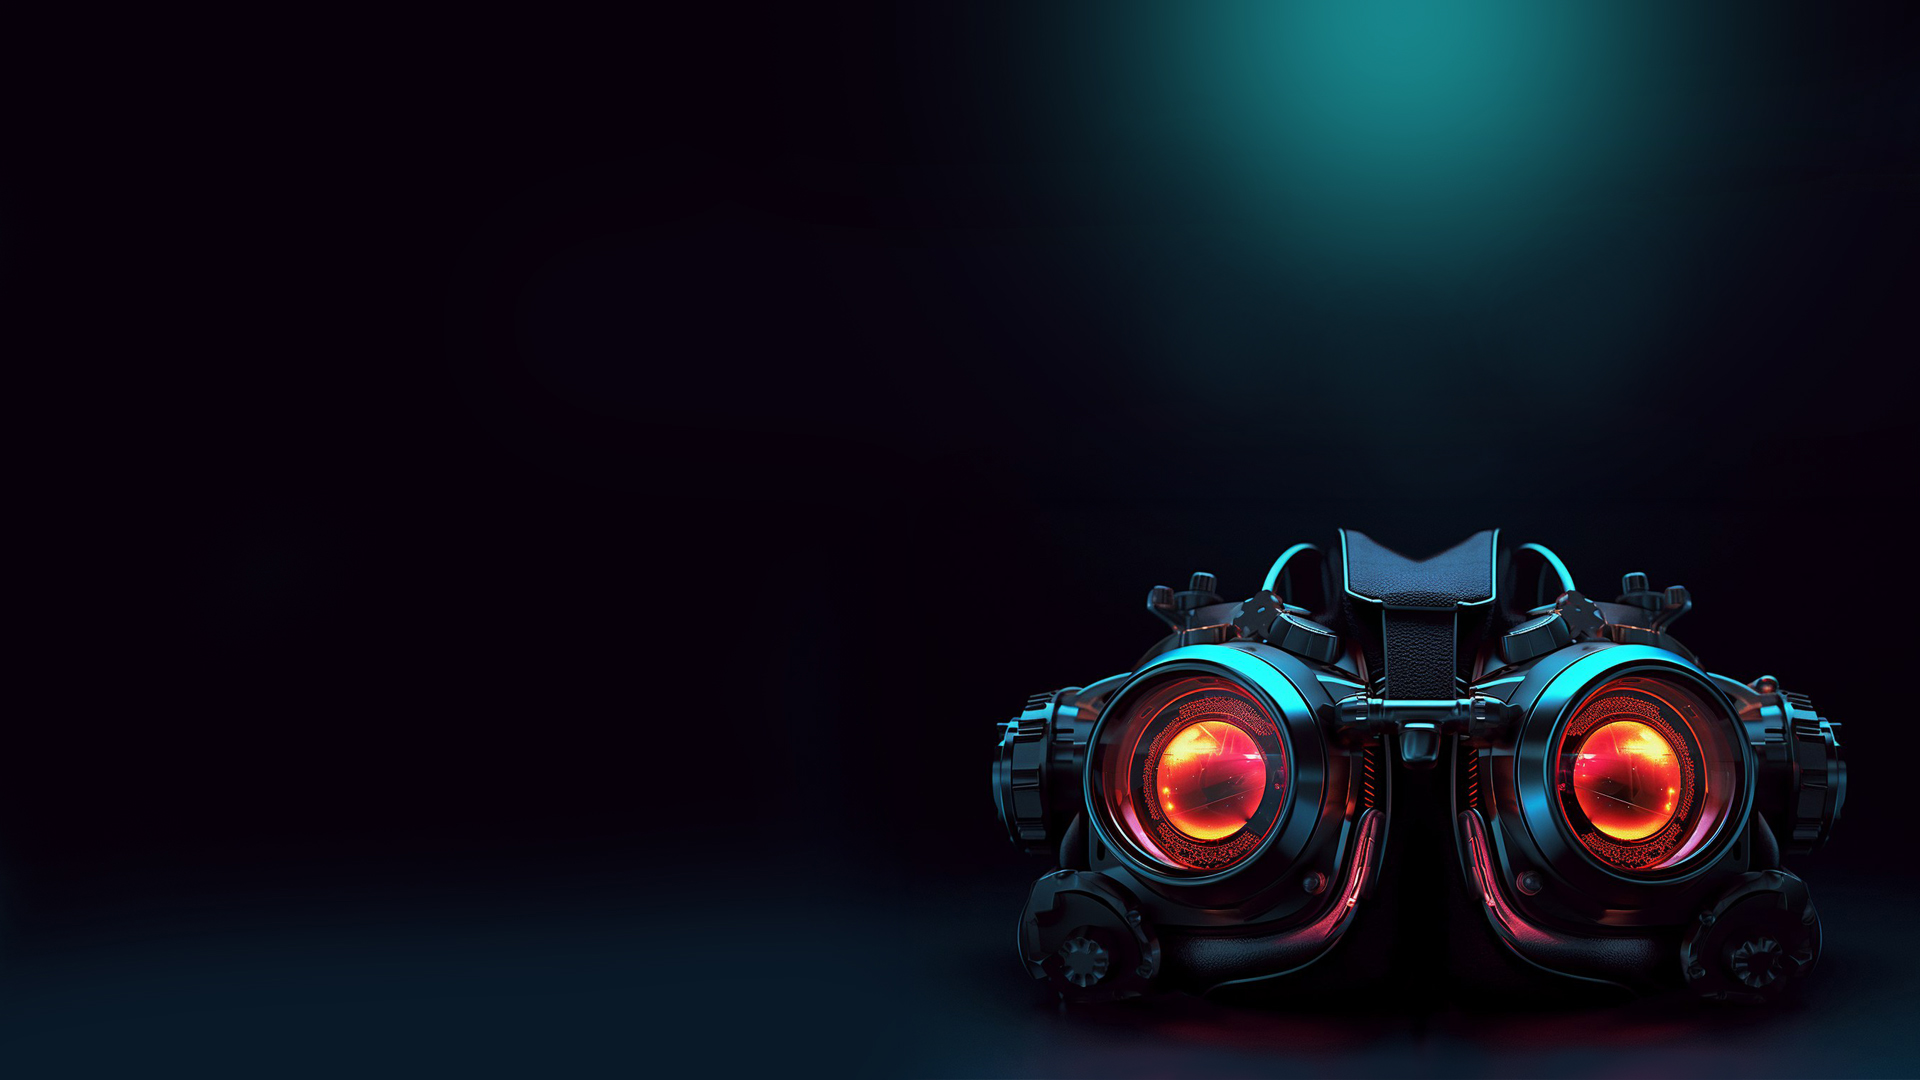
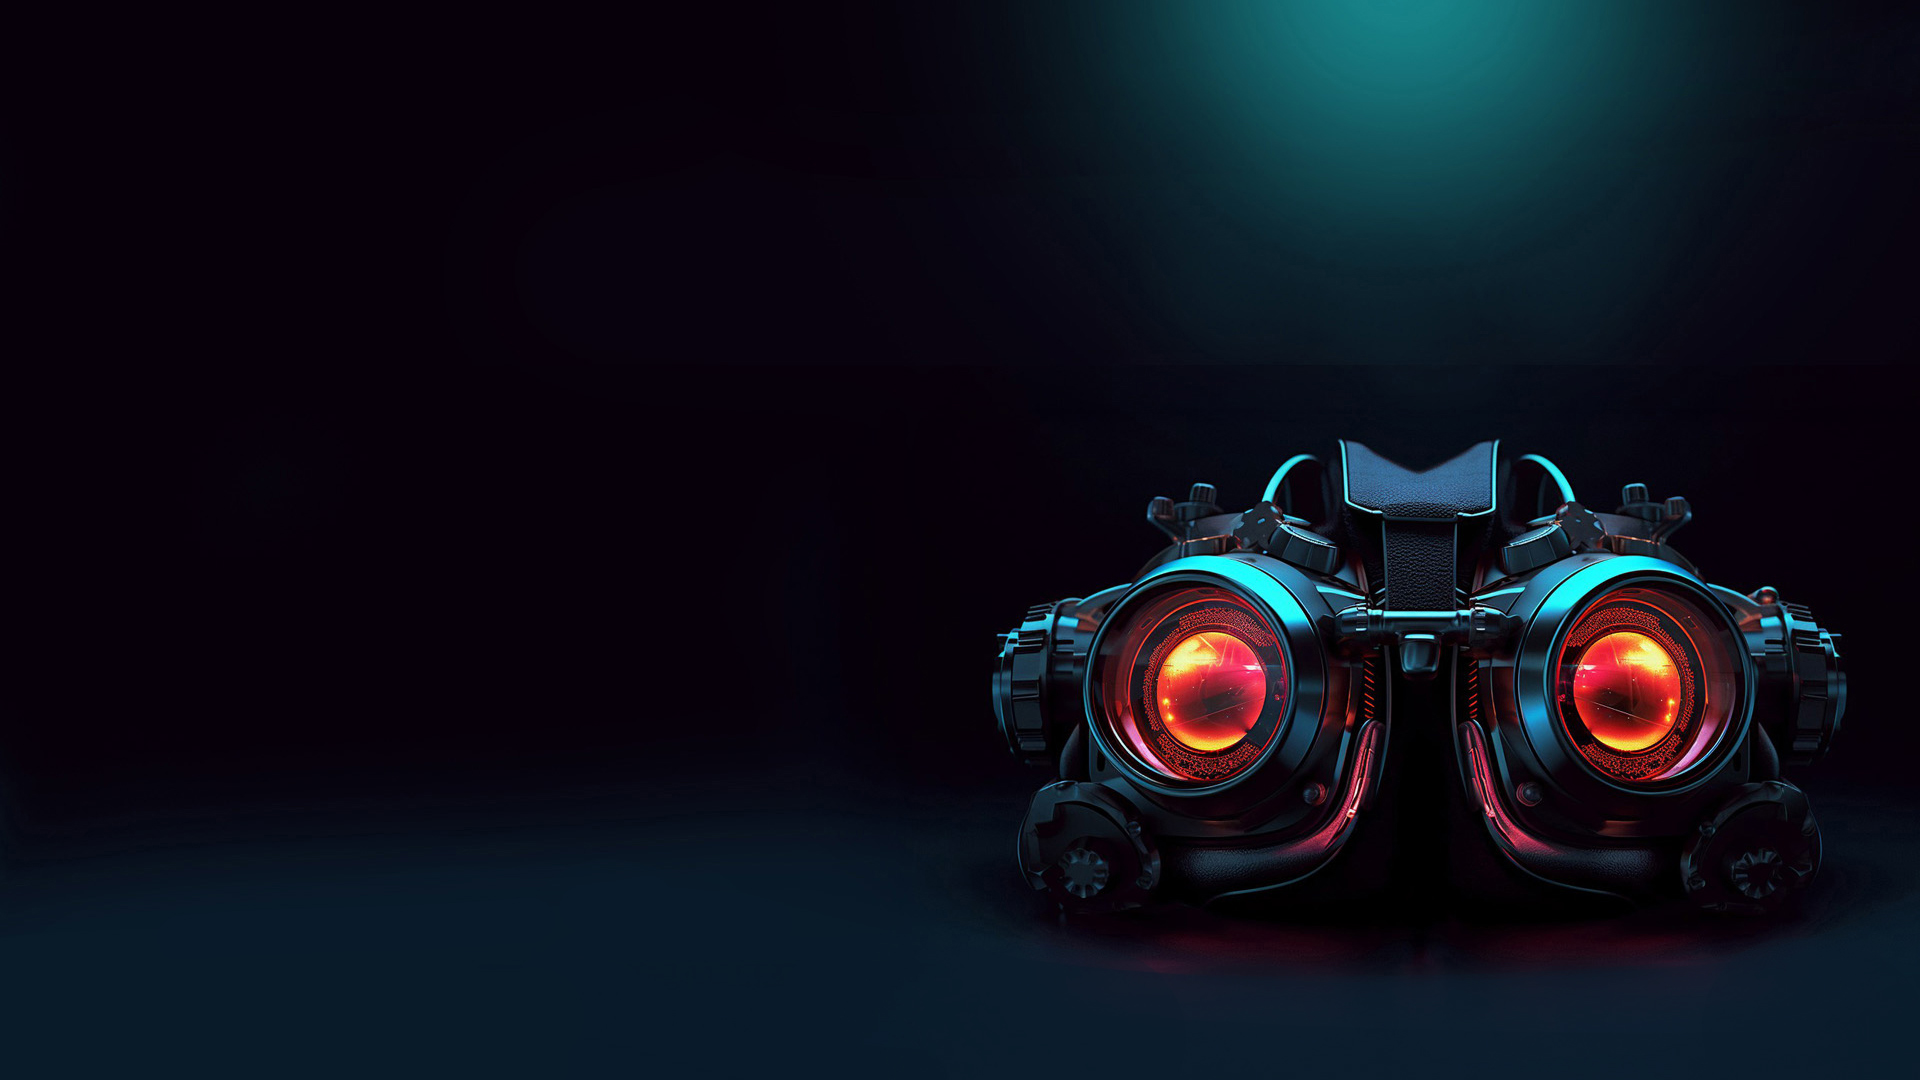
improved code purity and adaptability

Changed region(s): [[0.5, 0.3972, 0.9688, 1.0]]

diff --git a/src/sass/variables.scss b/src/sass/variables.scss
@@ -1,10 +1,14 @@
 $color-main:                  #cff;
+
 $border-color:                #cff;
+
 $header-bg-color:             #07010a;
+
 $button-text-color:           #07010a;
 $button-black-text-color:     #5c5c5e;
 $button-bg-color:             #cacad6;
 $button-active-color:         #070707;
+
 $white-text-color:            #f6f4f5;
 $black-text-color:            #070707;
 $grey-text-color:             #cacad6;
@@ -15,12 +19,13 @@ $hamburger-text-color:        #cff;
 $cart-bg-color:             #07010a;
 $cart-button-color:         #cff;
 
-$main-gradient: linear-gradient(0deg, rgba(7,1,10,1) 0%, rgba(9,25,40,1) 100%);
+$main-gradient: linear-gradient(180deg, #0a1b2b 20%, rgb(5, 10, 12) 90%, rgba(11,43,54,1) 100%);
 $button-gradient: linear-gradient(180deg, rgba(255,255,255,1) 0%, rgba(204,255,255,1) 83%);
 $button-gradient-hover: linear-gradient(180deg, rgba(214,255,255,1) 0%, rgba(193,255,255,1) 100%);
 $text-gradient: linear-gradient(180deg, rgba(255,255,255,1) 0%, rgba(204,255,255,1) 83%);
 $border-gradient: linear-gradient(0deg, rgba(255,255,255,1) 0%, rgba(204,255,255,1) 83%);
 
+$screen-ss:                340px;
 $screen-s:                 480px;
 $screen-m:                 652px;
 $screen-l:                 992px;

diff --git a/src/blocks/cart/cart.scss b/src/blocks/cart/cart.scss
@@ -12,6 +12,10 @@
     font-size: 14px;
   }
 
+  @media (max-width: $screen-ss) {
+    font-size: 12px;
+  }
+
   &_visible {
     display: block;
   }
@@ -111,12 +115,6 @@
 
   &__item-name {
     grid-area: name;
-    font-size: 16px;
-
-    @media (max-width: $screen-m) {
-      font-size: 14px;
-    }
-
   }
 
   &__item-quantity {
@@ -132,6 +130,10 @@
 
     @media (max-width: $screen-s) {
       gap: 6px;
+    }
+
+    @media (max-width: $screen-ss) {
+      gap: 4px;
     }
   }
 
@@ -183,6 +185,12 @@
     &:hover {
       background-color: $color-main;
       color: $black-text-color;
+    }
+
+    @media (max-width: $screen-m) {
+      top: -10px;
+      right: -10px;
+      font-size: 18px;
     }
   }
 
@@ -237,10 +245,8 @@
     border-bottom: 1px solid $color-main;
     text-align: end;
     font-weight: 700;
-    font-size: 16px;
 
     @media (max-width: $screen-m) {
-      font-size: 14px;
       padding-right: 10px;
     }
   }
@@ -259,12 +265,10 @@
     color: $cart-button-color;
     border-radius: 25px;
     cursor: pointer;
-    font-size: 16px;
 
     @media (max-width: $screen-m) {
       margin-top: 10px;
       padding: 5px 10px;
-      font-size: 14px;
     }
 
     @media (max-width: $screen-s) {

diff --git a/src/blocks/navigation/navigation.scss b/src/blocks/navigation/navigation.scss
@@ -1,10 +1,10 @@
-.navigation{
+.navigation {
   display: flex;
   justify-content: space-between;
   align-items: center;
   height: 70px;
 
-  &__list{
+  &__list {
     display: flex;
     gap: 0 20px;
     padding: 0;
@@ -45,7 +45,7 @@
     position: relative;
     transition: all 0.5s ease;
 
-    &::before{
+    &::before {
       content: "";
       position: absolute;
       top: 0;
@@ -57,7 +57,7 @@
       transition: all 0.5s ease;
     }
 
-    &::after{
+    &::after {
       content: "";
       position: absolute;
       top: 50%;
@@ -69,14 +69,14 @@
       transition: all 0.5s ease;
     }
 
-    &:hover{
+    &:hover {
       color: $black-text-color;
 
-      &::before{
+      &::before {
         width: 100%;
       }
 
-      &::after{
+      &::after {
         width: 100%;
       }
     }
@@ -105,7 +105,7 @@
     }
   }
 
-  &__cart-btn{
+  &__cart-btn {
     position: relative;
     justify-self: end;
     height: 24px;
@@ -130,7 +130,7 @@
     font-size: 13px;
   }
 
-  &__cart-number_on{
+  &__cart-number_on {
     display: inline-flex;
   }
 

diff --git a/src/blocks/tabs/tabs.scss b/src/blocks/tabs/tabs.scss
@@ -6,8 +6,8 @@
     display: block;
   }
 
-  &__title{
-    margin-bottom: 20px;
+  &__title {
+    margin-bottom: 30px;
     font-weight: 400;
   }
 
@@ -82,8 +82,7 @@
   &__content-item {
     display: grid;
     position: absolute;
-    grid-template-columns: auto 280px;
-    grid-template-rows: auto 150px;
+    grid-template-columns: 2fr 1fr;
     gap: 40px;
     opacity: 0;
     transition: opacity 0.4s ease-in-out;
@@ -92,6 +91,10 @@
       position: relative;
       display: block;
       height: 0;
+    }
+
+    @media (max-width: $screen-xl) {
+      gap: 20px;
     }
 
     &_active {
@@ -106,13 +109,11 @@
   &__content-img {
     width: 580px;
     max-height: 300px;
-    grid-row: 1/-1;
-    align-self: stretch;
     object-fit: cover;
 
     @media (max-width: $screen-m) {
+      width: 580px;
       width: 100%;
-      object-fit: cover;
       margin-bottom: 6px;
     }
   }

diff --git a/src/blocks/contact/contact.scss b/src/blocks/contact/contact.scss
@@ -31,6 +31,12 @@
     display: flex;
   }
 
+  &__title {
+    @media (max-width: $screen-s) {
+      font-size: 14px;
+    }
+  }
+
   &__input-container {
     display: flex;
     justify-content: center;
@@ -43,6 +49,15 @@
     border-radius: 25px;
     border: none;
     outline: none;
+
+    @media (max-width: $screen-m) {
+      font-size: 16px;
+    }
+
+    @media (max-width: $screen-m) {
+      font-size: 14px;
+      width: 140px;
+    }
   }
 
   &__button {
@@ -54,6 +69,11 @@
     background-color: transparent;
     color: $cart-button-color;
     cursor: pointer;
+
+    @media (max-width: $screen-m) {
+      padding: 3px 7px;
+      font-size: 14px;
+    }
 
     &:hover {
       background-color: $color-main;
@@ -77,6 +97,4 @@
       color: $black-text-color;
     }
   }
-
 }
-

diff --git a/src/index.html b/src/index.html
@@ -262,7 +262,7 @@
             </picture>
             <h3 class="card__title card__title_accessories">Binoculus подарочная карта</h3>
             <p class="card__text ">Уникальная подарочная карта, подходящая для оплаты игр в любых интернет магазинах.</p>
-            <p class="card__price">$60 USD</p>
+            <p class="card__price">$29.99 USD</p>
             <button class="card__button buy-button" data-product-id="5">ДОБАВИТЬ В КОРЗИНУ</button>
           </div>
         </div>

diff --git a/src/blocks/top/top.scss b/src/blocks/top/top.scss
@@ -5,7 +5,6 @@
   background-size: cover;
   background-position: bottom center;
 
-
   @media (max-width: $screen-m) {
     display: flex;
   }
@@ -26,7 +25,6 @@
       font-size: 44px;
       line-height: 60px;
     }
-
   }
 
   &__text {
@@ -52,12 +50,12 @@
       height: 45px;
     }
 
-    &:hover{
+    &:hover {
       background: $button-gradient-hover;
       transform: scale3d(1.03, 1.03, 1);
     }
 
-    &:active{
+    &:active {
       background: $button-gradient;
       transform: scale3d(0.95, 0.95, 1);
     }

diff --git a/src/blocks/modal/modal.scss b/src/blocks/modal/modal.scss
@@ -26,7 +26,6 @@
     margin-bottom: 20px;
 
     @media (max-width: $screen-m) {
-
       font-size: 14px;
     }
   }
@@ -36,7 +35,7 @@
     border: 2px solid $cart-button-color;
     border-radius: 25px;
     transition: all 0.3s ease;
-		background-color: transparent;
+    background-color: transparent;
     color: $cart-button-color;
     font-size: 16px;
     cursor: pointer;

diff --git a/src/blocks/promo/promo.scss b/src/blocks/promo/promo.scss
@@ -30,18 +30,18 @@
       height: 45px;
     }
 
-    &:hover{
+    &:hover {
       background: $button-gradient-hover;
       transform: scale3d(1.03, 1.03, 1);
     }
 
-    &:active{
+    &:active {
       background: $button-gradient;
       transform: scale3d(0.95, 0.95, 1);
     }
   }
 
-  &__text{
+  &__text {
     margin-top: 10px;
     color: $white-text-color;
   }

diff --git a/src/blocks/gradient-title/gradient-title.scss b/src/blocks/gradient-title/gradient-title.scss
@@ -2,7 +2,7 @@
   text-transform: uppercase;
   font-size: 36px;
   line-height: 41px;
-  background: linear-gradient(180deg, rgba(255,255,255,1) 0%, rgba(204,255,255,1) 83%);
+  background: $text-gradient;
   background-clip: text;
   -webkit-background-clip: text;
   -webkit-text-fill-color: transparent;

diff --git a/src/blocks/subscribe/subscribe.scss b/src/blocks/subscribe/subscribe.scss
@@ -38,7 +38,6 @@
   &__form {
     max-width: 600px;
     position: relative;
-
   }
 
   &__text {
@@ -48,10 +47,8 @@
   }
 
   &__email {
-    @media (min-width: $screen-xl ){
+    @media (min-width: $screen-xl) {
       padding-right: 10px;
     }
-
   }
 }
-

diff --git a/src/blocks/page/page.scss b/src/blocks/page/page.scss
@@ -4,5 +4,5 @@
   font-size: 16px;
   color: $color-main;
   margin: 0;
-  background: linear-gradient(0deg, rgba(7,1,10,1) 0%, rgba(9,25,40,1) 100%);
+  background: $main-gradient;
 }
